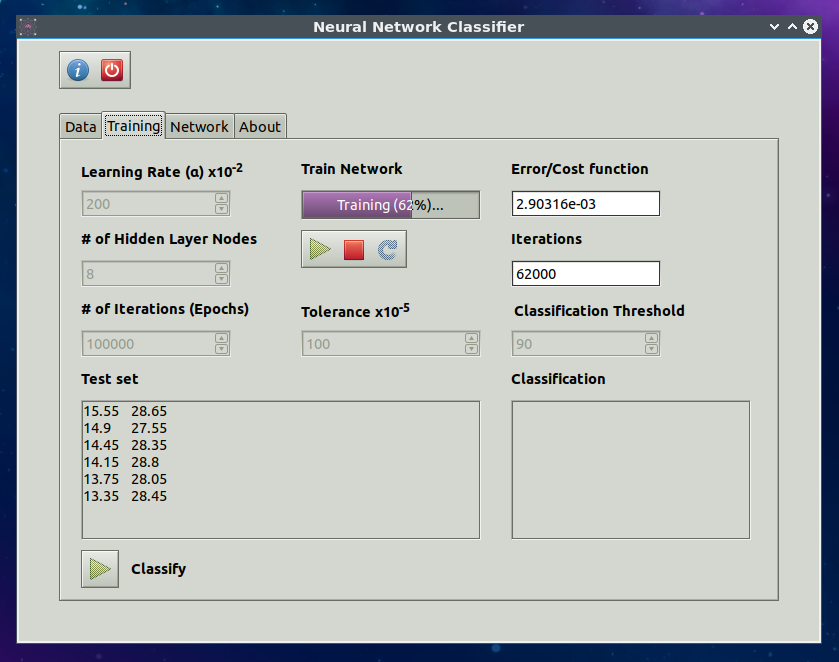
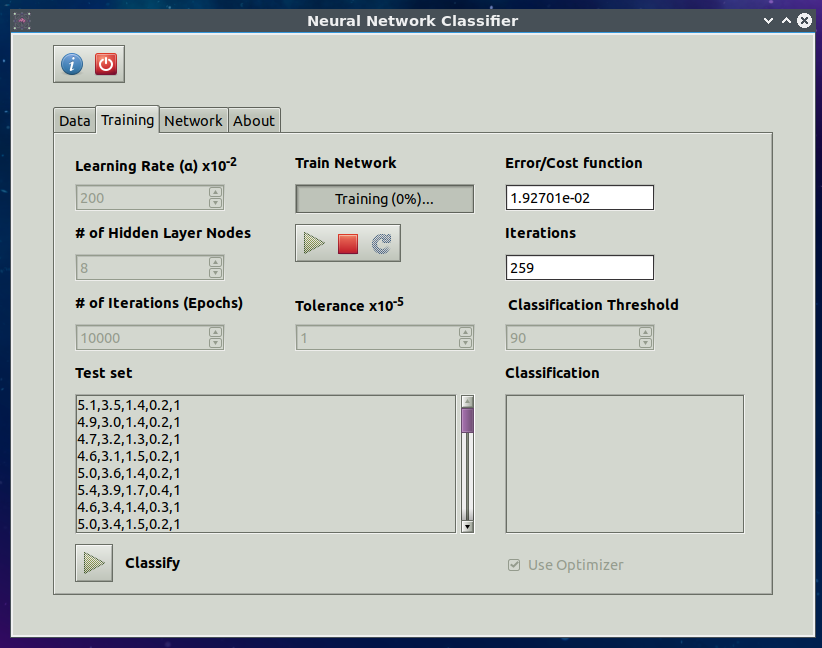
update documentation

diff --git a/README.md b/README.md
@@ -15,13 +15,15 @@ Training and Test sets from a csv/text file can be loaded provided you indicate 
 
 **Training Page**
 
-This is where the actual artificial neural network training happens. Learning rate refers to the rate or speed at which the network 'learns' or reconfigure itself (by changing the interconnection strenghts between each layer). In each iteration of the training, the amount of difference between the network's current output and the expected output is measured, i.e. Error. Tolerance is related to the mimimum value of the Error to consider the network 'trained' enough to stop. Epochs refers to the maximum number of iterations to run the training.
+This is where the actual artificial neural network training happens. Learning rate refers to the rate or speed at which the network 'learns' or reconfigures itself by changing the interconnection strenghts between the nodes in each layer. In each iteration of the training, the difference between the network's current output and the expected output is measured (Error/Cost function). Tolerance is related to the mimimum value of the Error to consider the network 'trained' enough to stop. Epochs refers to the maximum number of iterations to run the training.
 
 You can freely start/stop/continue the training process. Training is performed during idle mode so you can freely move between pages. 
 
-You do not need a test set to train the neural network. However, a test set was loaded, it will automatically classfiy them once training is completed. Classification threshold can be set (from 1-100). This sets the minimum score a test data point to be classified into a category. Default is 50, but for stricter classification, it should be set at a higher value, e.g. 90.
+You do not need a test set to train the neural network. However, if a test set was loaded, it will automatically proceed to the classification step once training is completed. Classification threshold is the minimum a test data point needs to score in order to be classified into a category. The default classification threshold is 50 but it can be set to values 1-100. For stricter classification a threshold of 90 (or higher) is recommended.
 
-Once training is completed, you can enter new data points in the 'Test set' box and click on the 'Classify' button to classify them. If you change the number of hidden nodes, learning rate, or tolerance, you must retrain the network. 
+Once training is completed, you can enter new data points in the 'Test set' box and click on the 'Classify' button to classify them. If you change the number of hidden nodes, learning rate, or tolerance, you must retrain the network.
+
+You can use the included the powerful Fmincg optimizer (C.E. Rasmussen, 1999, 2000 & 2001) to speed up the training process and obtain better classification performance. This is available via a check box near the bottom right corner of the Training page.
 
 ![Training Page](/Screenshots/training.png)
 
